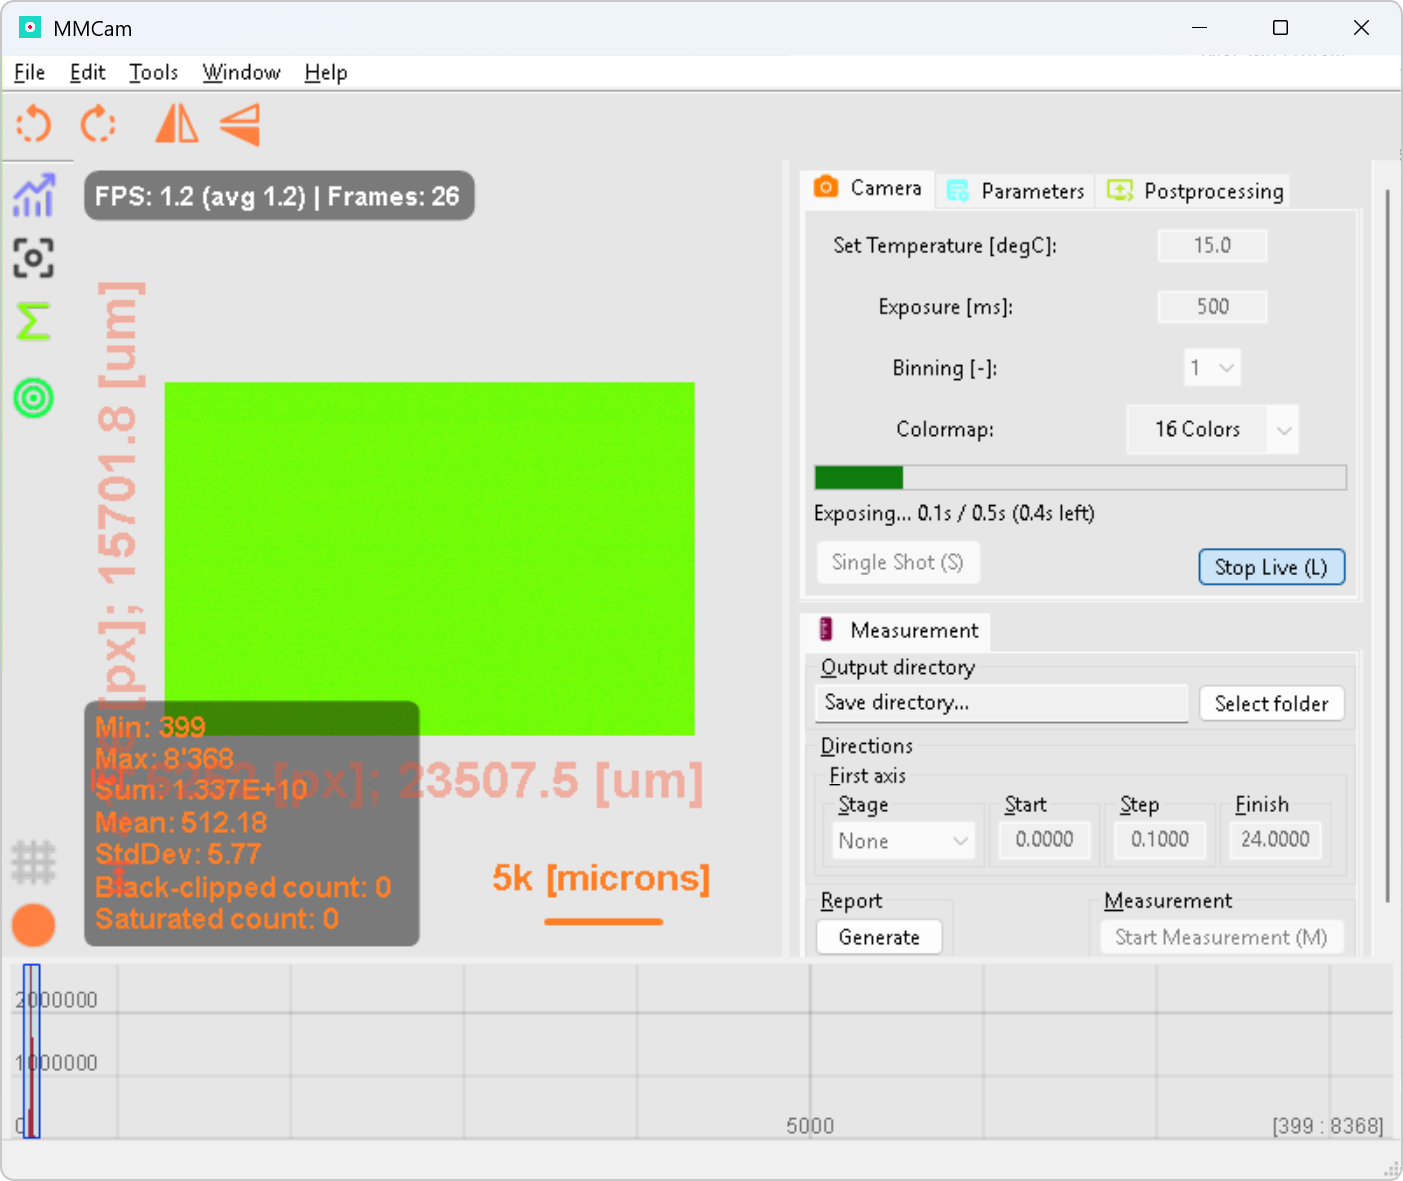
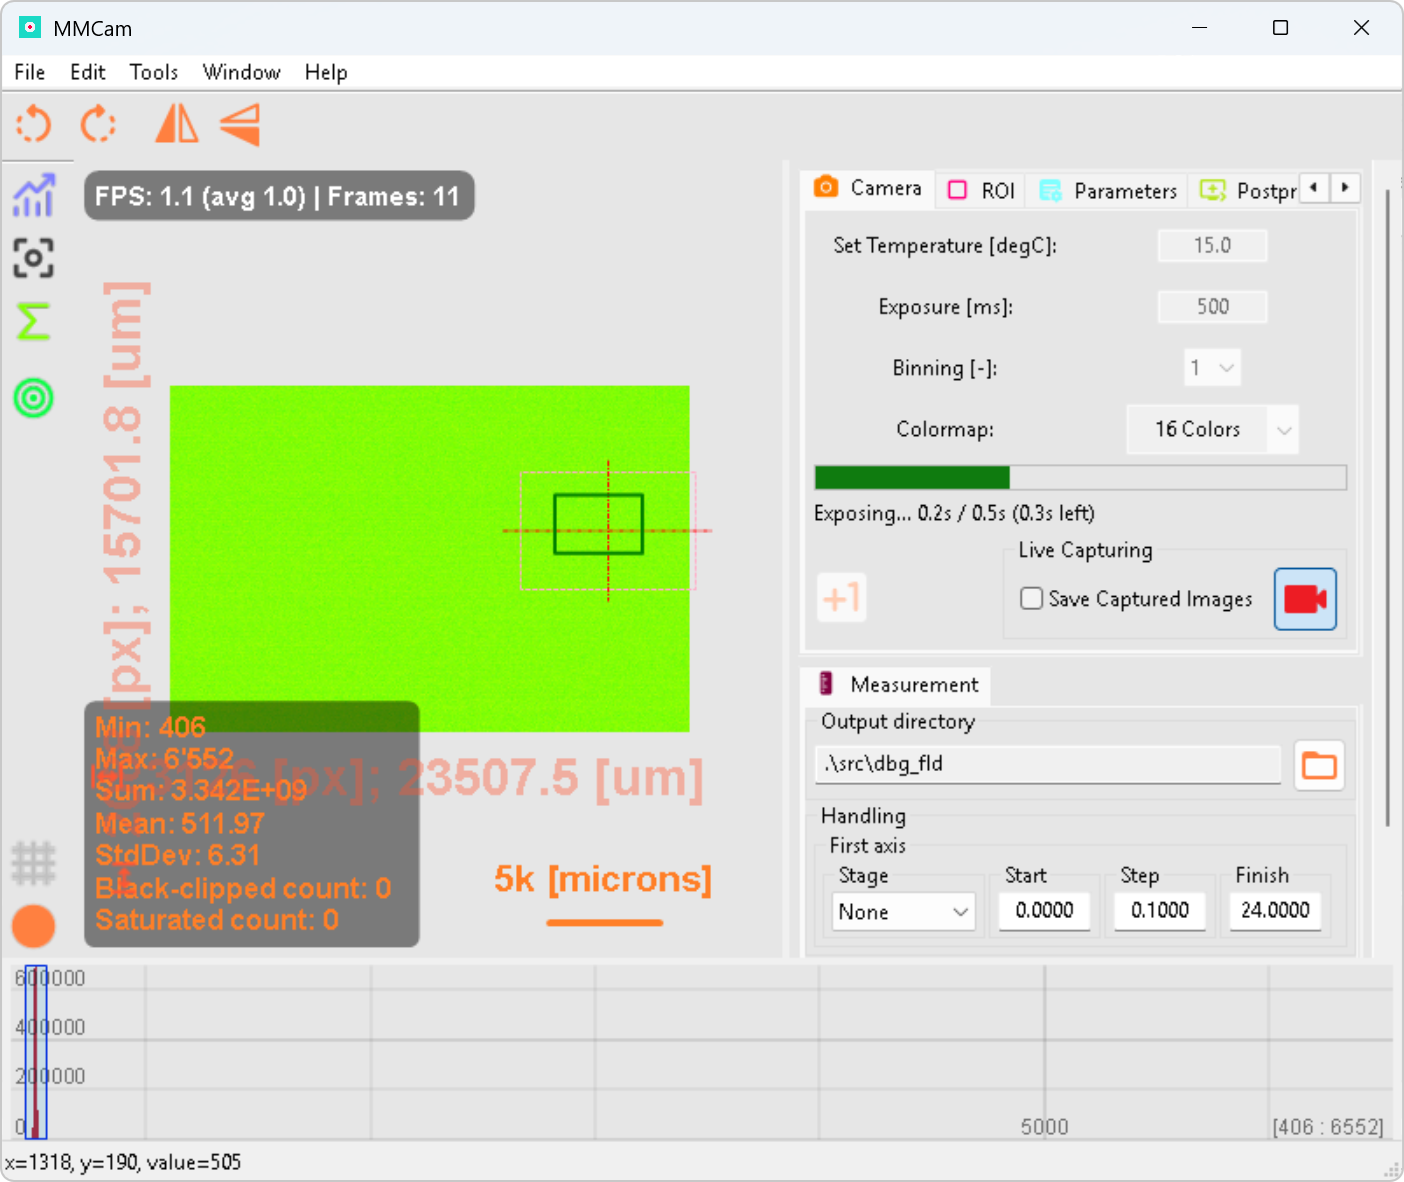
Adjusted the HTML pages and the images of the application, since there was added a new ROI tab and buttons now have bitmaps.

diff --git a/MMCam/src/About/usage.html b/MMCam/src/About/usage.html
@@ -35,6 +35,7 @@ to detailed descriptions of individual features.
   <li>Select and initialize a <strong>Work Station</strong> preset (camera + stages).</li>
   <li>Let the application initialize and automatically start <strong>live capture</strong>.</li>
   <li>Adjust camera parameters (temperature, exposure, binning, colormap).</li>
+  <li>Optionally define the <strong>Region Of Interest (ROI)</strong> to restrict acquisition to a selected sensor area.</li>
   <li>Use preview tools and overlays to align optics and verify signal quality.</li>
   <li>Optionally configure postprocessing (background, flat-field, smoothing).</li>
   <li>Inspect histogram and lock display range if stable contrast is required.</li>
@@ -67,7 +68,27 @@ scale bar, image dimensions, FPS counter, and frame number.
 </p>
 
 <ul>
-  <li><a href="initialized.html">Live Capture and Preview Overlays</a></li>
+  <li><a href="initialized.html#automatic_live_capture">Live Capture and Preview Overlays</a></li>
+</ul>
+</div>
+
+<div class="section">
+<h2>ROI — Region Of Interest</h2>
+
+<p>
+The ROI tab is used to select a smaller acquisition area on the camera sensor.
+On cameras that support hardware ROI, this can reduce transferred data volume
+and improve frame rate. On cameras without hardware ROI support, MMCam crops
+the requested region in software after full-frame acquisition.
+</p>
+
+<p>
+The <strong>Centrical</strong> option keeps the ROI symmetric with respect to the
+sensor center when the ROI size is changed.
+</p>
+
+<ul>
+  <li><a href="initialized.html#roi">ROI Controls and Behavior</a></li>
 </ul>
 </div>
 
@@ -151,6 +172,7 @@ and describes behavior, limitations, and interaction rules in detail.
 <ul>
   <li>If you are setting up hardware: start with <a href="settings.html">Work Station — Settings</a>.</li>
   <li>If you want to understand what you see after startup: read <a href="initialized.html">Initialized Application State</a>.</li>
+  <li>If you need to adjust the acquisition area: see <a href="initialized.html#roi">ROI Controls and Behavior</a>.</li>
   <li>If you are aligning optics or evaluating signal quality: see <a href="vertical_tools.html">Vertical Tools Panel</a> and <a href="histogram.html">Histogram Panel</a>.</li>
 </ul>
 

diff --git a/MMCam/src/About/initialized.html b/MMCam/src/About/initialized.html
@@ -81,7 +81,7 @@ the current acquisition and image properties.
        alt="MMCam initialized state with Camera tab active and live preview" />
 </div>
 
-
+<a name="automatic_live_capture"></a>
 <h2>Automatic live capture</h2>
 
 <p>
@@ -170,7 +170,68 @@ preview rendering:
        alt="MMCam initialized state with Camera tab active and live preview" />
 </div>
 
+<a name="roi"></a>
+<h2>ROI tab — Region Of Interest</h2>
 
+<div class="img-wrap">
+  <img src="img/initialized_app_roi_tab.png"
+       alt="Initialized state with ROI tab showing Region Of Interest controls" />
+</div>
+
+<p>
+The <strong>ROI</strong> tab is used to define the <em>Region Of Interest</em>
+of the camera sensor. Restricting acquisition to a smaller sensor area can
+reduce the amount of transferred image data and increase frame rate on cameras
+that support hardware ROI.
+</p>
+
+<p>
+If the selected camera does not support ROI on the hardware level, MMCam
+still uses the full acquired frame and crops the requested region in software.
+In that case, ROI affects the displayed and processed image region, but does
+not reduce sensor readout time.
+</p>
+
+<dl>
+  <dt>Centrical</dt>
+  <dd>
+    When checked, the ROI is adjusted symmetrically around the center of the
+    camera sensor. In this mode, changing the ROI width or height keeps the
+    selected region centered automatically.
+  </dd>
+
+  <dt>X</dt>
+  <dd>
+    Horizontal start position of the ROI on the sensor, expressed in pixels.
+    This value defines the left boundary of the selected region.
+  </dd>
+
+  <dt>Y</dt>
+  <dd>
+    Vertical start position of the ROI on the sensor, expressed in pixels.
+    This value defines the top boundary of the selected region.
+  </dd>
+
+  <dt>Width</dt>
+  <dd>
+    Width of the selected ROI in pixels.
+  </dd>
+
+  <dt>Height</dt>
+  <dd>
+    Height of the selected ROI in pixels.
+  </dd>
+
+  <dt>Reset button</dt>
+  <dd>
+    Restores the ROI to the full sensor area.
+  </dd>
+</dl>
+
+<p>
+The ROI overlay is shown in the preview panel so that the selected region can
+be verified visually against the live image.
+</p>
 
 <h2>Parameters tab — camera state and telemetry</h2>
 
